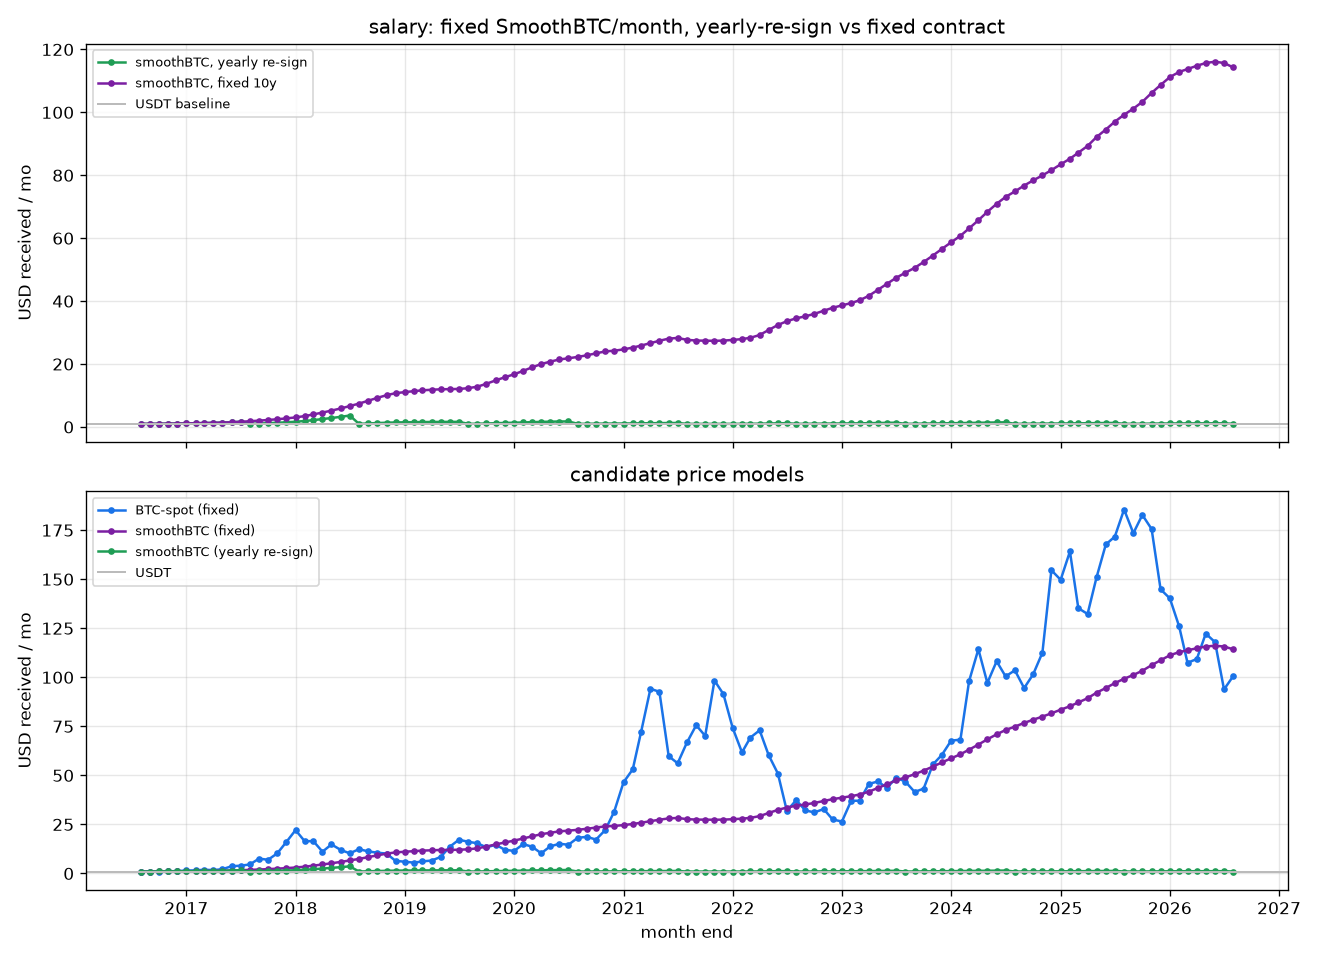
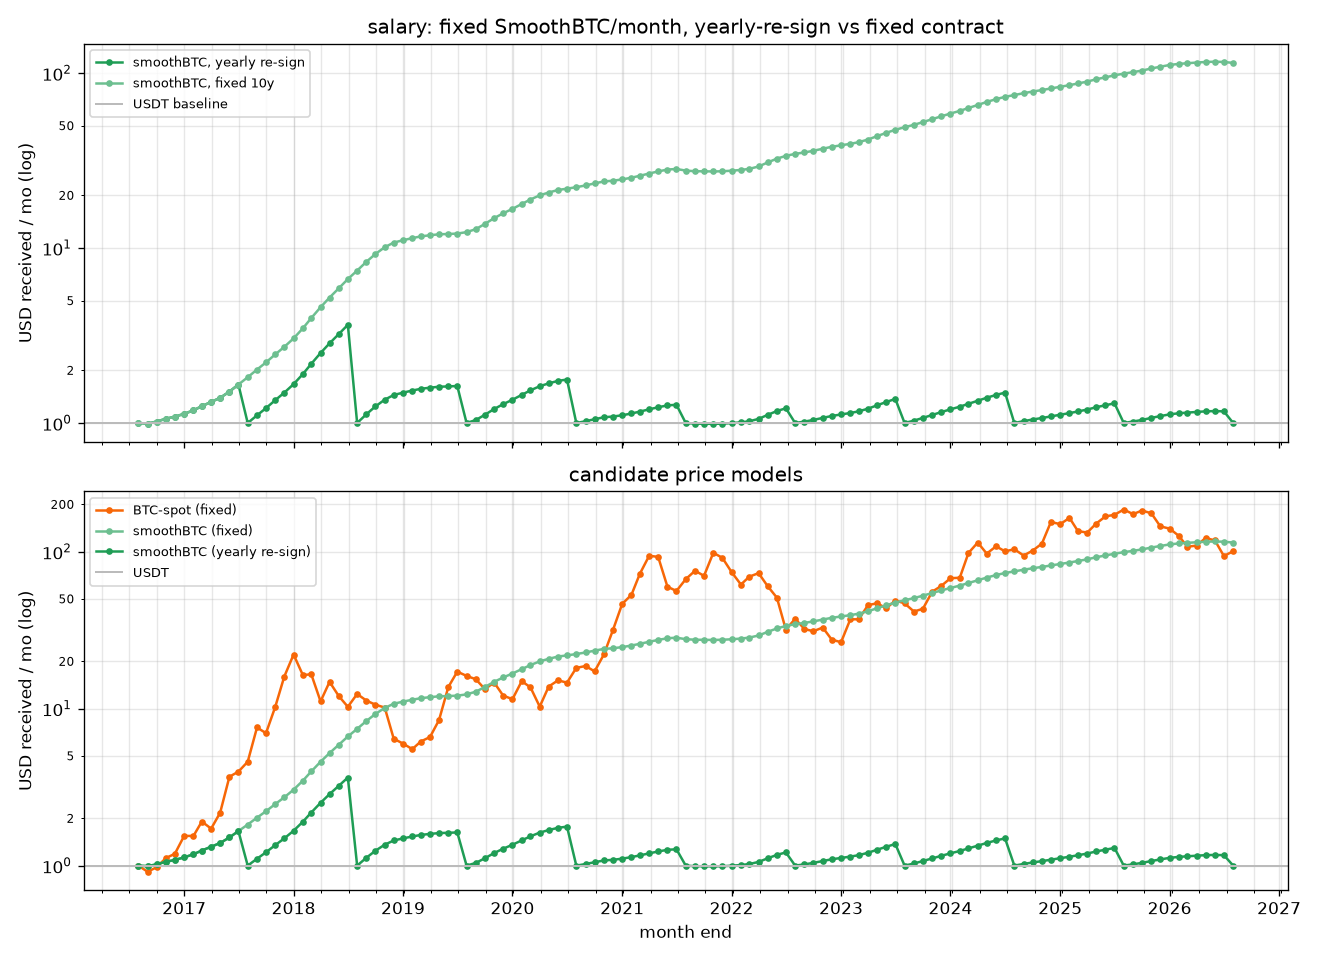
update colors

diff --git a/backtest.py b/backtest.py
@@ -25,6 +25,7 @@ sys.path.insert(0, str(Path(__file__).resolve().parent))
 
 from smoothbtc import analyze  # noqa: E402
 from smoothbtc import backtest as bt  # noqa: E402
+from smoothbtc import COLORS, shade  # noqa: E402
 
 OUT = Path(__file__).resolve().parent / "out" / "backtest"
 
@@ -38,17 +39,27 @@ def _save(fig, name: str) -> Path:
     return path
 
 
+def _log_grid(ax) -> None:
+    """Log y-grid with visible minor-tick labels so every horizontal line is readable."""
+    from matplotlib.ticker import LogLocator, FormatStrFormatter
+    ax.grid(which="both", alpha=0.3)
+    ax.minorticks_on()
+    loc = LogLocator(base=10, subs=(1.0, 2.0, 5.0))
+    ax.yaxis.set_minor_locator(loc)
+    ax.yaxis.set_minor_formatter(FormatStrFormatter("%g"))
+    plt.setp(ax.get_yticklabels(minor=True), visible=True, fontsize=7)
+
+
 def _derived_series(merch: pd.DataFrame, sal: pd.DataFrame) -> tuple[pd.Series, pd.Series]:
     """Month-end USD value of a $1 SmoothBTC float (merchant) & salary income."""
     return merch["float_usd"], sal["income_usd"]
 
 
 def chart_values(models: dict[str, bt.ValueModel], launch: str) -> Path:
-    colors = {"sbtc": "#1f9d55", "wma": "#7b1fa2", "wma200": "#e65100", "spot": "#1a73e8"}
     fig, (ax, av) = plt.subplots(2, 1, figsize=(11, 7), sharex=True,
                                  gridspec_kw={"height_ratios": [3, 1]})
     for mkey, m in models.items():
-        ax.plot(m.series.index, m.series, lw=1.2, label=m.name, color=colors[mkey])
+        ax.plot(m.series.index, m.series, lw=1.2, label=m.name, color=COLORS[mkey])
     ax.set_yscale("log")
     ax.axvline(pd.Timestamp(launch), color="#000", ls="--", lw=1, label="launch")
     ax.set_ylabel("USD per 1 smoothBTC (log)")
@@ -59,7 +70,7 @@ def chart_values(models: dict[str, bt.ValueModel], launch: str) -> Path:
     # Volatility comparison across the candidate USD prices.
     for mkey in ("sbtc", "wma", "wma200", "spot"):
         r = models[mkey].series.pct_change().rolling(90, min_periods=45).std() * np.sqrt(365.25)
-        av.plot(r.index, r, lw=1.1, color=colors[mkey],
+        av.plot(r.index, r, lw=1.1, color=COLORS[mkey],
                 label=f"{models[mkey].name} — 90d ann. vol")
     av.set_yscale("log")
     av.set_ylabel("volatility (90d window, ann., log)")
@@ -72,10 +83,9 @@ def chart_values(models: dict[str, bt.ValueModel], launch: str) -> Path:
 def chart_merchant(models: dict[str, bt.ValueModel], df: pd.DataFrame, launch: str,
                    n_months: int) -> Path:
     fig, (a1, a2) = plt.subplots(2, 1, figsize=(11, 8), sharex=True)
-    colors = {"sbtc": "#1f9d55", "wma": "#7b1fa2", "spot": "#1a73e8"}
     m = models["sbtc"]
     merch = bt.merchant_cashflow(m, df, launch, n_months)
-    a1.plot(merch.index, merch["float_usd"] * 100, color=colors["sbtc"], lw=1.3,
+    a1.plot(merch.index, merch["float_usd"] * 100, color=COLORS["sbtc"], lw=1.3,
             label="smoothBTC ($1 float, USD value)")
     a1.axhline(0, color="#bbb", lw=1.2)
     a1.set_ylabel("float value (USD cents)")
@@ -87,7 +97,7 @@ def chart_merchant(models: dict[str, bt.ValueModel], df: pd.DataFrame, launch: s
         mk = bt.merchant_cashflow(models[k], df, launch, n_months)
         ride[k] = mk
     for k, mk in ride.items():
-        a2.plot(mk.index, mk["wealth"], color=colors[k], lw=1.2, label=f"{k}: wealth={mk['wealth'].iloc[-1]:.0f}")
+        a2.plot(mk.index, mk["wealth"], color=COLORS[k], lw=1.2, label=f"{k}: wealth={mk['wealth'].iloc[-1]:.0f}")
     a2.plot(merch.index, merch["usdt_wealth"], color="#bbb", lw=1.2, label="USDT baseline")
     a2.legend(fontsize=8, loc="upper left")
     a2.set_ylabel("USD wealth (cum. spend + float)")
@@ -104,27 +114,34 @@ def chart_salary(models: dict[str, bt.ValueModel], df: pd.DataFrame, launch: str
     m_sp = models["spot"]
     sal_spot = bt.salary_cashflow(m_sp, df, launch, n_months, renew=False)
 
+    c_sbtc, c_sbtc_l = COLORS["sbtc"], shade(COLORS["sbtc"])
+    c_spot = COLORS["spot"]
+
     fig, (a1, a2) = plt.subplots(2, 1, figsize=(11, 8), sharex=True)
-    a1.plot(sal_yearly.index, sal_yearly["income_usd"], color="#1f9d55", marker="o", ms=3,
+    a1.plot(sal_yearly.index, sal_yearly["income_usd"], color=c_sbtc, marker="o", ms=3,
             label="smoothBTC, yearly re-sign")
-    a1.plot(sal_fixed.index, sal_fixed["income_usd"], color="#7b1fa2", marker="o", ms=3,
+    a1.plot(sal_fixed.index, sal_fixed["income_usd"], color=c_sbtc_l, marker="o", ms=3,
             label="smoothBTC, fixed 10y")
     a1.axhline(1.0, color="#bbb", lw=1.2, label="USDT baseline")
-    a1.set_ylabel("USD received / mo")
+    a1.set_yscale("log")
+    a1.set_ylabel("USD received / mo (log)")
     a1.set_title("salary: fixed SmoothBTC/month, yearly-re-sign vs fixed contract")
-    a1.legend(fontsize=8, loc="upper left"); a1.grid(alpha=0.3)
+    a1.legend(fontsize=8, loc="upper left")
+    _log_grid(a1)
 
-    a2.plot(sal_spot.index, sal_spot["income_usd"], color="#1a73e8", marker="o", ms=3,
+    a2.plot(sal_spot.index, sal_spot["income_usd"], color=c_spot, marker="o", ms=3,
             label="BTC-spot (fixed)")
-    a2.plot(sal_fixed.index, sal_fixed["income_usd"], color="#7b1fa2", marker="o", ms=3,
+    a2.plot(sal_fixed.index, sal_fixed["income_usd"], color=c_sbtc_l, marker="o", ms=3,
             label="smoothBTC (fixed)")
-    a2.plot(sal_yearly.index, sal_yearly["income_usd"], color="#1f9d55", marker="o", ms=3,
+    a2.plot(sal_yearly.index, sal_yearly["income_usd"], color=c_sbtc, marker="o", ms=3,
             label="smoothBTC (yearly re-sign)")
     a2.axhline(1.0, color="#bbb", lw=1.2, label="USDT")
     a2.set_xlabel("month end")
-    a2.set_ylabel("USD received / mo")
+    a2.set_yscale("log")
+    a2.set_ylabel("USD received / mo (log)")
     a2.set_title("candidate price models")
-    a2.legend(fontsize=8, loc="upper left"); a2.grid(alpha=0.3)
+    a2.legend(fontsize=8, loc="upper left")
+    _log_grid(a2)
     return _save(fig, "03_salary.png")
 
 
@@ -161,8 +178,8 @@ def chart_float_sensitivity(df: pd.DataFrame, launch: str, n_months: int) -> Pat
             s = bt.summary(mk, f"merchant:{mkey}")
             ratios.append(s["ratio_vs_usdt"])
             dds.append(s["max_rel_dd"] * 100)
-        a1.plot(floats, ratios, "o-", label=mkey)
-        a2.plot(floats, dds, "o-", label=mkey)
+        a1.plot(floats, ratios, "o-", color=COLORS[mkey], label=mkey)
+        a2.plot(floats, dds, "o-", color=COLORS[mkey], label=mkey)
     a1.axhline(1, color="#bbb", ls="--")
     a1.set_xscale("log")
     a1.set_xlabel("working-capital float (months of spend)")
@@ -181,18 +198,19 @@ def chart_cumulative(models: dict[str, bt.ValueModel], df: pd.DataFrame, launch:
                      n_months: int) -> Path:
     """Cumulative USD received vs USDT baseline, salary scenarios."""
     fig, ax = plt.subplots(figsize=(11, 5))
-    styles = [("sbtc", "fixed", "#1f9d55", "-"), ("sbtc", "yearly", "#388e3c", "--"),
-              ("spot", "fixed", "#1a73e8", "-"), ("spot", "yearly", "#7986cb", "--")]
+    styles = [("sbtc", "fixed", COLORS["sbtc"], "-"), ("sbtc", "yearly", shade(COLORS["sbtc"]), "--"),
+              ("spot", "fixed", COLORS["spot"], "-"), ("spot", "yearly", shade(COLORS["spot"]), "--")]
     for mkey, tag, col, ls in styles:
         m = models[mkey]
         sal = bt.salary_cashflow(m, df, launch, n_months, renew=(tag == "yearly"))
         ax.plot(sal.index, sal["cumulative"] / sal["usdt_cum"], color=col, ls=ls, lw=1.4,
                 label=f"{mkey}/{tag}")
     ax.axhline(1, color="#bbb", ls="--", label="USDT (1.0x)")
-    ax.set_ylabel("cumulative received vs USDT (multiple)")
+    ax.set_yscale("log")
+    ax.set_ylabel("cumulative received vs USDT (multiple, log)")
     ax.set_title("salary: cumulative USD vs USDT baseline (1.0x = parity)")
     ax.legend(fontsize=8)
-    ax.grid(alpha=0.3)
+    ax.grid(alpha=0.3, which="both")
     return _save(fig, "06_cumulative.png")
 
 
@@ -247,7 +265,7 @@ def chart_collateral_ts(df, since, smooth=270, b=0.73):
     spot = df["price"].reindex(P.index).ffill()
     rn = (spot / P) / (spot.iloc[0] / P.iloc[0])
     fig, ax = plt.subplots(figsize=(11, 4.5))
-    ax.plot(rn.index, rn, lw=1.1, color="#1a73e8")
+    ax.plot(rn.index, rn, lw=1.1, color=COLORS["spot"])
     ax.axhline(1.0, color="#000", lw=1, label="vault baseline (1.0)")
     bd = rn.idxmin()
     ax.axvline(bd, color="#c62828", ls="--", lw=1.2,

diff --git a/smoothbtc/plot.py b/smoothbtc/plot.py
@@ -12,6 +12,7 @@ import numpy as np
 import pandas as pd
 
 from . import analyze
+from . import COLORS  # noqa: E402
 
 OUT = Path(__file__).resolve().parent.parent / "out"
 
@@ -27,16 +28,16 @@ def _save(fig, name: str) -> Path:
 
 def chart_raw(df: pd.DataFrame) -> Path:
     fig, (a1, a2) = plt.subplots(2, 1, sharex=True, figsize=(11, 8))
-    a2.plot(df.index, df["difficulty"], color="#f7931a", lw=0.9)
+    a2.plot(df.index, df["difficulty"], color=COLORS["sbtc"], lw=0.9)
     a2.set_yscale("log")
     a2.set_ylabel("network difficulty (log)")
     a2.set_title("raw data (since 2009)")
     a2.grid(alpha=0.3)
 
-    a1.plot(df.index, df["price"], color="#1a73e8", lw=0.9)
+    a1.plot(df.index, df["price"], color=COLORS["spot"], lw=0.9)
     a1.set_yscale("log")
     a1.set_ylabel("BTC price USD (log)")
-    a1.legend(["price"], loc="upper left")
+    a1.legend(["price (spot)"], loc="upper left")
     a1.grid(alpha=0.3)
 
     a2.xaxis.set_major_formatter(mdates.DateFormatter("%Y"))
@@ -47,8 +48,8 @@ def chart_smoothed_vs_price(df: pd.DataFrame, best_w: int, t0: str) -> Path:
     """Normalised smoothed-difficulty ratios vs normalised price."""
     sub = analyze._prep_ratios(df, best_w, t0)
     fig, ax = plt.subplots(figsize=(11, 5))
-    ax.plot(sub.index, sub["lr"], color="#1a73e8", lw=1.1, label="ln(price/price_t0)")
-    ax.plot(sub.index, sub["ld"], color="#1f9d55", lw=1.1, label=f"ln(diff_sm{best_w}/diff_sm{best_w}_t0)")
+    ax.plot(sub.index, sub["lr"], color=COLORS["spot"], lw=1.1, label="ln(price/price_t0)")
+    ax.plot(sub.index, sub["ld"], color=COLORS["sbtc"], lw=1.1, label=f"ln(diff_sm{best_w}/diff_sm{best_w}_t0)")
     ax.legend(loc="upper left")
     ax.set_title(f"normalised log-ratios vs t0={t0}  (smoothing window={best_w}d)")
     ax.grid(alpha=0.3)
@@ -99,8 +100,8 @@ def chart_price_space(df: pd.DataFrame, best: analyze.WindowResult, t0: str) -> 
     ref_p = sub.iloc[0]["price"]
     pred_p = ref_p * np.exp(best.intercept + best.slope * sub["ld"])
     fig, ax = plt.subplots(figsize=(11, 5))
-    ax.plot(sub.index, sub["price"], lw=1.0, color="#1a73e8", label="actual BTC price")
-    ax.plot(sub.index, pred_p, lw=1.0, color="#1f9d55", ls="--",
+    ax.plot(sub.index, sub["price"], lw=1.0, color=COLORS["spot"], label="actual BTC price")
+    ax.plot(sub.index, pred_p, lw=1.0, color=COLORS["sbtc"], ls="--",
             label=f"difficulty proxy: price_t0*exp(a+b*ld), W={best.window}d (a={best.intercept:.2f}, b={best.slope:.2f})")
     ax.set_yscale("log")
     ax.legend(fontsize=8, loc="upper left")
@@ -113,9 +114,9 @@ def chart_deviation(df: pd.DataFrame, best: analyze.WindowResult, t0: str) -> Pa
     """Predicted/actual price ratio over time: shows where the model over/under tracks."""
     dev = analyze.deviation_series(df, best, t0)
     fig, ax = plt.subplots(figsize=(11, 4))
-    ax.plot(dev.index, dev["dev"], lw=0.9, color="#8e24aa")
+    ax.plot(dev.index, dev["dev"], lw=0.9, color=COLORS["sbtc"])
     ax.axhline(1.0, color="#000", lw=1)
-    ax.fill_between(dev.index, dev["dev"], 1.0, alpha=0.15, color="#8e24aa")
+    ax.fill_between(dev.index, dev["dev"], 1.0, alpha=0.15, color=COLORS["sbtc"])
     q = dev["dev"].quantile([0.05, 0.5, 0.95])
     ax.set_yscale("log")
     for pct, v in q.items():
@@ -130,7 +131,7 @@ def chart_deviation(df: pd.DataFrame, best: analyze.WindowResult, t0: str) -> Pa
 def chart_rolling_corr(df: pd.DataFrame, best_w: int, t0: str, span_days: int = 365) -> Path:
     roc = analyze.rolling_corr(df, best_w, t0, span_days)
     fig, ax = plt.subplots(figsize=(11, 4))
-    ax.plot(roc.index, roc["corr"], lw=1.0, color="#2e7d32")
+    ax.plot(roc.index, roc["corr"], lw=1.0, color="#1a73e8")
     ax.set_ylim(0, 1.001)
     ax.set_ylabel(f"rolling corr (span={span_days}d)")
     ax.set_title(f"rolling correlation of ln(price_ratio) vs ln(diff_ratio), W={best_w}d")

diff --git a/lending.py b/lending.py
@@ -41,6 +41,7 @@ sys.path.insert(0, str(Path(__file__).resolve().parent))
 
 from smoothbtc import analyze  # noqa: E402
 from smoothbtc import backtest as bt  # noqa: E402
+from smoothbtc import COLORS, shade  # noqa: E402
 
 OUT = Path(__file__).resolve().parent / "out"
 
@@ -180,7 +181,7 @@ def main() -> int:
     for ax, days, title in ((axes[0, 0], 30, "last 30 days"),
                             (axes[0, 1], 365, "last 12 months")):
         sub = smooth_usd.loc[smooth_usd.index >= last - pd.Timedelta(days=days)]
-        ax.plot(sub.index, sub, color="#1f9d55", lw=1.4)
+        ax.plot(sub.index, sub, color=COLORS["sbtc"], lw=1.4)
         ax.set_ylabel("USD / SmoothBTC")
         ax.set_title(f"SmoothBTC/USD — {title}")
         ax.grid(alpha=0.3)
@@ -189,9 +190,9 @@ def main() -> int:
     # bottom-left: SmoothBTC/BTC 12m + 30d inset shading
     ax = axes[1, 0]
     sub = smooth_per_btc.loc[smooth_per_btc.index >= last - pd.Timedelta(days=365)]
-    ax.plot(sub.index, sub, color="#b8860b", lw=1.4)
+    ax.plot(sub.index, sub, color=shade(COLORS["sbtc"]), lw=1.4)
     sub30 = smooth_per_btc.loc[smooth_per_btc.index >= last - pd.Timedelta(days=30)]
-    ax.fill_between(sub30.index, sub30.min(), sub30.max(), alpha=0.2, color="#b8860b",
+    ax.fill_between(sub30.index, sub30.min(), sub30.max(), alpha=0.2, color=shade(COLORS["sbtc"]),
                     label="last 30d band")
     ax.set_ylabel("SmoothBTC / BTC")
     ax.set_title(f"SmoothBTC/BTC — last 12 months (now {spb_now:.2f})")
@@ -200,7 +201,7 @@ def main() -> int:
     ax.xaxis.set_major_formatter(mdates.DateFormatter("%Y-%m"))
     # bottom-right: difficulty ratio and liquidation floor
     ax = axes[1, 1]
-    ax.plot(growth.index, growth, color="#1a73e8", lw=1.0, label="smoothed difficulty ratio D(t)/D0")
+    ax.plot(growth.index, growth, color=COLORS["sbtc"], lw=1.0, label="smoothed difficulty ratio D(t)/D0")
     ax.axhline(growth_now * floor_ratio, color="#c62828", ls="--", lw=1.4,
                label=f"liquidation floor {floor_ratio:.2f}× of mint level")
     ax.axhline(1.0, color="#bbb", ls=":", lw=1.0, label="anchor t0 (ratio = 1)")

diff --git a/smoothbtc/__init__.py b/smoothbtc/__init__.py
@@ -1,1 +1,18 @@
 __all__ = ["download", "analyze", "plot"]
+
+# Shared chart palette. Rule: spot is ALWAYS orange, smoothBTC/difficulty
+# ALWAYS green; the rest are fixed so every diagram uses identical colours.
+COLORS = {
+    "sbtc": "#1f9d55",   # smoothBTC (difficulty-derived)
+    "wma":  "#7b1fa2",   # wma SMA-350 ≈ 50w accounting anchor
+    "wma200": "#d6336c", # wma200 SMA-1400 ≈ 200w reference line
+    "spot": "#f76707",   # raw BTC/USD
+}
+
+
+def shade(color: str, f: float = 0.35) -> str:
+    """Blend a hex colour toward white by f (0..1) — a 'light' variant."""
+    h = color.lstrip("#")
+    r, g, b = (int(h[i:i + 2], 16) for i in (0, 2, 4))
+    r, g, b = (int(c + (255 - c) * f) for c in (r, g, b))
+    return f"#{r:02x}{g:02x}{b:02x}"
